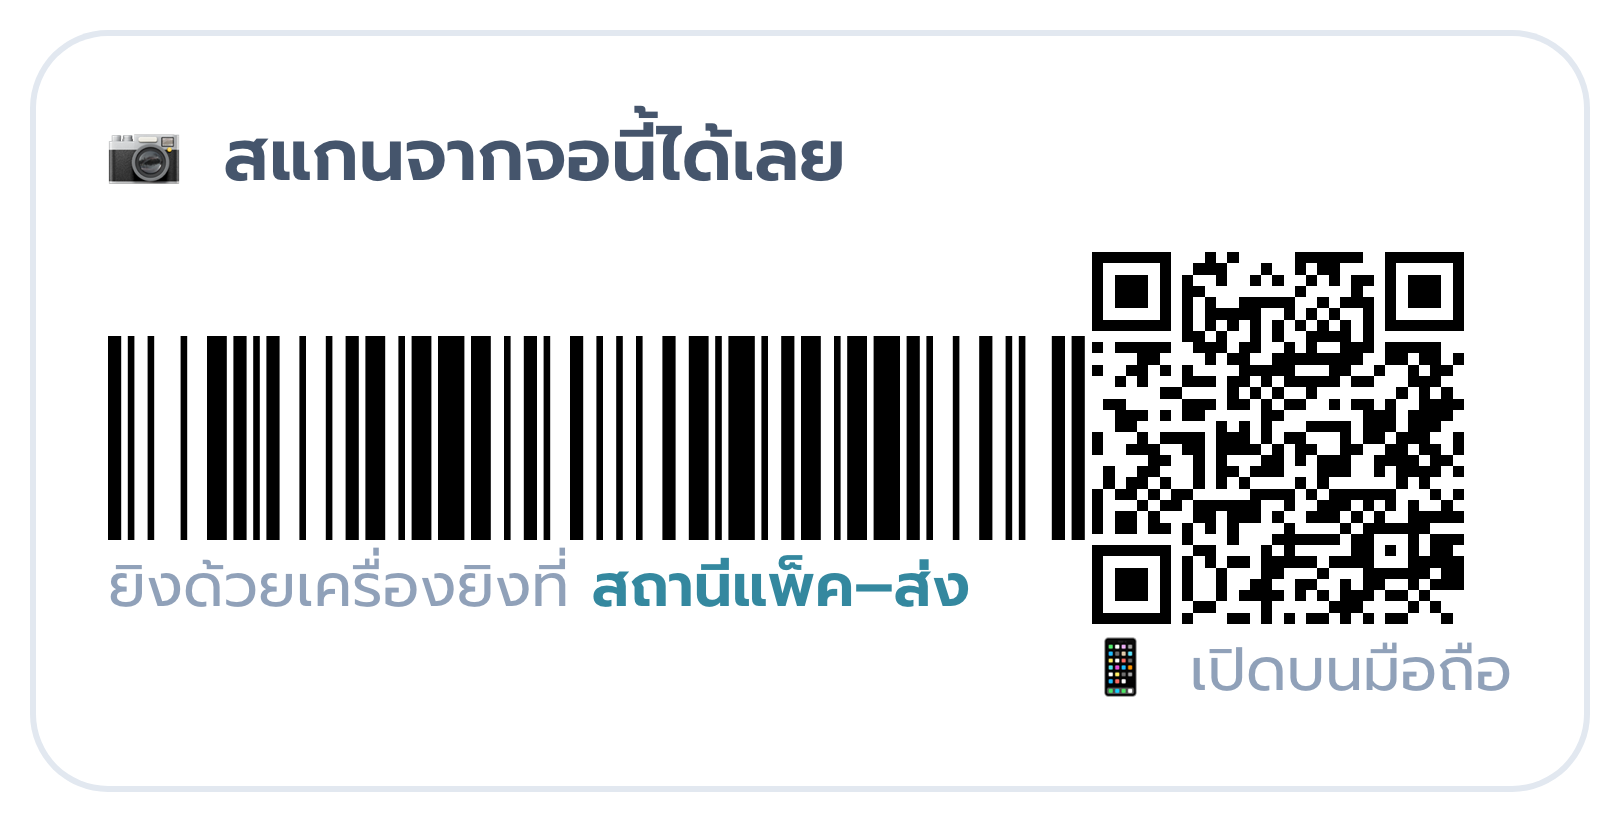
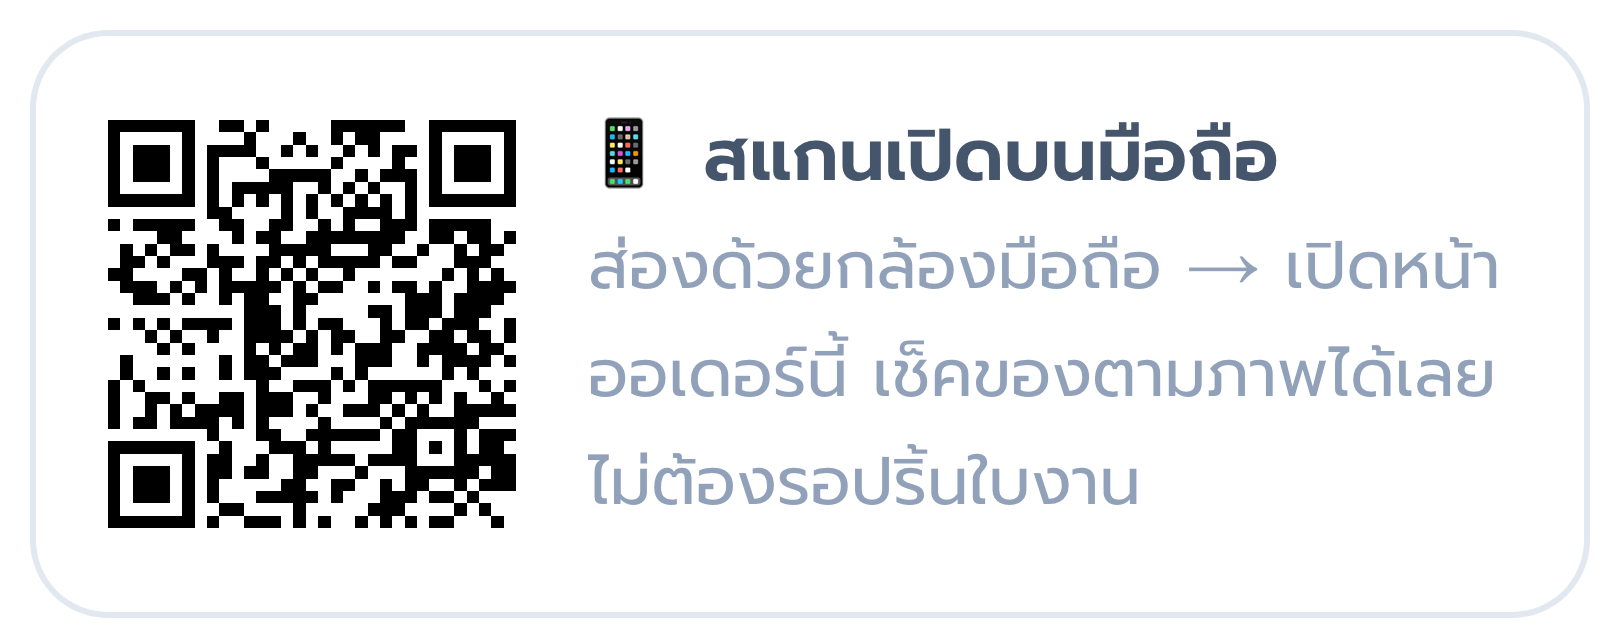
หน้าออเดอร์: บล็อกสแกนเหลือ QR อย่างเดียว ตัดบาร์โค้ดออก
- เปลี่ยนหัวเป็น '📱 สแกนเปิดบนมือถือ' ให้ตรงกับสิ่งที่ทำได้จริง
- ถ่ายภาพจริงใหม่ใส่คู่มือ
- แก้คำแนะนำที่ใช้ไม่ได้แล้ว: ออเดอร์มัดจำที่ใบปะหน้าไม่ออก = ไม่มีบาร์โค้ดเลย
  ให้พิมพ์เลขออเดอร์เองที่ช่องสแกน (หรือใช้เครื่องยิง 2D ยิง QR)
- บาร์โค้ดเหลือจุดเดียวในระบบ = บนใบปะหน้าพัสดุ

diff --git a/src/app/admin/guide/topics.tsx b/src/app/admin/guide/topics.tsx
@@ -1424,18 +1424,19 @@ export const TOPICS: Topic[] = [
         <Bullets
           items={[
             <>
-              <B>บนใบปะหน้าพัสดุ</B> (ครึ่งบนที่ติดกล่อง) — บาร์โค้ดมุมขวา ใต้ชื่อวิธีจัดส่ง สำหรับ<B>เครื่องยิง</B>
+              <B>บนใบปะหน้าพัสดุ</B> (ครึ่งบนที่ติดกล่อง) — <B>บาร์โค้ดจุดเดียวในระบบ</B> ที่เครื่องยิง 1D อ่านได้
+              อยู่มุมขวา ใต้ชื่อวิธีจัดส่ง
             </>,
             <>
               <B>บนใบงาน</B> (ครึ่งล่างที่เก็บไว้) — <B>QR</B> สำหรับกล้องมือถือ
             </>,
             <>
-              ออเดอร์<B>มัดจำที่ยังเก็บเงินไม่ครบ</B> ใบปะหน้าไม่พิมพ์ = <Mark>ไม่มีบาร์โค้ดบนกระดาษ</Mark> —
-              ให้ยิงจากจอแทน (บล็อกด้านล่าง) หรือสแกน QR ด้วยมือถือ
+              ออเดอร์<B>มัดจำที่ยังเก็บเงินไม่ครบ</B> ใบปะหน้าไม่พิมพ์ = <Mark>ไม่มีบาร์โค้ดให้ยิง</Mark> —
+              พิมพ์เลขออเดอร์เองที่ช่องสแกน หรือสแกน QR ด้วยมือถือ
             </>,
             <>
-              <B>ในหน้าออเดอร์</B> การ์ด <Key>🖨 ใบงาน · การจัดส่ง</Key> → บล็อก{" "}
-              <B>📷 สแกนจากจอนี้ได้เลย</B> — ยิงจากจอตรง ๆ ได้เลย ใช้ตอนใบงานยังไม่ปริ้น/หาไม่เจอ
+              <B>ในหน้าออเดอร์</B> การ์ด <Key>🖨 ใบงาน · การจัดส่ง</Key> → บล็อก <B>📱 สแกนเปิดบนมือถือ</B> —
+              ใช้ตอนใบงานยังไม่ปริ้น (เป็น QR สำหรับมือถือ ไม่ใช่บาร์โค้ดสำหรับเครื่องยิง)
             </>,
             <>
               <B>ในโหมดแพ็ค</B> — พอตรวจครบทุกข้อ บาร์โค้ดจะโผล่ที่หัวจอสีเข้ม ยิงต่อได้เลยไม่ต้องกลับหน้าอื่น
@@ -1490,14 +1491,13 @@ export const TOPICS: Topic[] = [
           </div>
           <div>
             <p className="mb-1 text-[0.8rem] font-bold text-slate-700">2⃣ ในหน้าออเดอร์ (ยังไม่ต้องปริ้น)</p>
-            <Shot caption="การ์ด “ใบงาน · การจัดส่ง” → บล็อก 📷 สแกนจากจอนี้ได้เลย">
-              <ShotImg src="/guide/qr-on-screen.png" alt="บาร์โค้ดและ QR ในหน้าออเดอร์" max="20rem" />
+            <Shot caption="การ์ด “ใบงาน · การจัดส่ง” → บล็อก 📱 สแกนเปิดบนมือถือ">
+              <ShotImg src="/guide/qr-on-screen.png" alt="QR ในหน้าออเดอร์" max="20rem" />
             </Shot>
           </div>
         </div>
         <p className="text-[0.85rem] text-slate-500">
-          บนจอมีทั้ง <B>บาร์โค้ด</B> (ซ้าย — สำหรับเครื่องยิง) และ <B>QR</B> (ขวา — สำหรับมือถือ) อยู่คู่กัน ·
-          บนกระดาษแยกกันคนละครึ่ง
+          ทั้งสองจุดเป็น QR เหมือนกัน สแกนแล้วเปิดหน้าออเดอร์เดียวกัน — ต่างกันแค่<B>ยังไม่ได้ปริ้นใบงานก็ใช้จากจอได้</B>
         </p>
 
         <p className="pt-1 font-bold text-slate-800">สแกนได้ 2 แบบ</p>
@@ -1516,8 +1516,9 @@ export const TOPICS: Topic[] = [
           </div>
         </div>
         <Warn>
-          <B>เครื่องยิงเลเซอร์เส้นเดียว (1D) อ่าน QR ไม่ได้</B> — ต้องใช้บาร์โค้ดบนใบปะหน้าแทน
-          หรือถ้าเป็นออเดอร์มัดจำที่ใบปะหน้าไม่ออก ให้ยิงบาร์โค้ดจากจอในหน้าออเดอร์
+          <B>เครื่องยิงเลเซอร์เส้นเดียว (1D) อ่าน QR ไม่ได้</B> — ต้องใช้บาร์โค้ดบน<B>ใบปะหน้า</B>แทน ·
+          ออเดอร์<B>มัดจำที่ใบปะหน้าไม่ออก</B> จะไม่มีบาร์โค้ดเลย ให้<Mark>พิมพ์เลขออเดอร์เองที่ช่องสแกน</Mark>
+          (หรือใช้เครื่องยิง 2D ยิง QR)
         </Warn>
 
         <p className="pt-1 font-bold text-slate-800">ครั้งแรกบนมือถือ ต้องล็อกอินก่อน</p>
@@ -1577,7 +1578,7 @@ export const TOPICS: Topic[] = [
               <tr className="border-t border-slate-100">
                 <td className="py-1 font-semibold text-slate-700">อยู่ตรงไหน</td>
                 <td className="py-1">ใบงาน (ครึ่งล่าง) · หน้าออเดอร์</td>
-                <td className="py-1">ใบปะหน้า (ครึ่งบน) · หน้าออเดอร์</td>
+                <td className="py-1">ใบปะหน้า (ครึ่งบน) เท่านั้น</td>
               </tr>
               <tr className="border-t border-slate-100">
                 <td className="py-1 font-semibold text-slate-700">ไว้ทำอะไร</td>

diff --git a/src/app/admin/orders/[id]/page.tsx b/src/app/admin/orders/[id]/page.tsx
@@ -2323,26 +2323,19 @@ export default function AdminOrderDetailPage() {
                   บาร์โค้ด = เลขออเดอร์ล้วน สำหรับเครื่องยิงที่สถานีแพ็ค
                   QR = ลิงก์หน้านี้ สำหรับเปิดบนมือถือ
                 */}
-                <div className="rounded-xl bg-white p-3 ring-1 ring-slate-200">
-                  <p className="text-xs font-semibold text-slate-600">📷 สแกนจากจอนี้ได้เลย</p>
-                  <div className="mt-2 flex items-center gap-3">
-                    <div className="min-w-0 flex-1">
-                      <Barcode value={order.id} displayValue={false} height={34} width={1.1} />
-                      <p className="mt-0.5 text-[10px] leading-tight text-slate-400">
-                        ยิงด้วยเครื่องยิงที่{" "}
-                        <Link href="/admin/orders/scan" className="font-semibold text-amber-600 hover:underline">
-                          สถานีแพ็ค–ส่ง
-                        </Link>
+                {origin && (
+                  <div className="flex items-center gap-3 rounded-xl bg-white p-3 ring-1 ring-slate-200">
+                    <div className="shrink-0">
+                      <QRCodeSVG value={`${origin}/admin/orders/${encodeURIComponent(order.id)}`} size={68} level="M" marginSize={0} />
+                    </div>
+                    <div className="min-w-0">
+                      <p className="text-xs font-semibold text-slate-600">📱 สแกนเปิดบนมือถือ</p>
+                      <p className="mt-0.5 text-[11px] leading-relaxed text-slate-400">
+                        ส่องด้วยกล้องมือถือ → เปิดหน้าออเดอร์นี้ เช็คของตามภาพได้เลย ไม่ต้องรอปริ้นใบงาน
                       </p>
                     </div>
-                    {origin && (
-                      <div className="shrink-0 text-center">
-                        <QRCodeSVG value={`${origin}/admin/orders/${encodeURIComponent(order.id)}`} size={62} level="M" marginSize={0} />
-                        <p className="mt-0.5 text-[10px] leading-tight text-slate-400">📱 เปิดบนมือถือ</p>
-                      </div>
-                    )}
                   </div>
-                </div>
+                )}
 
                 {/* วันที่จัดส่ง */}
                 <div>
